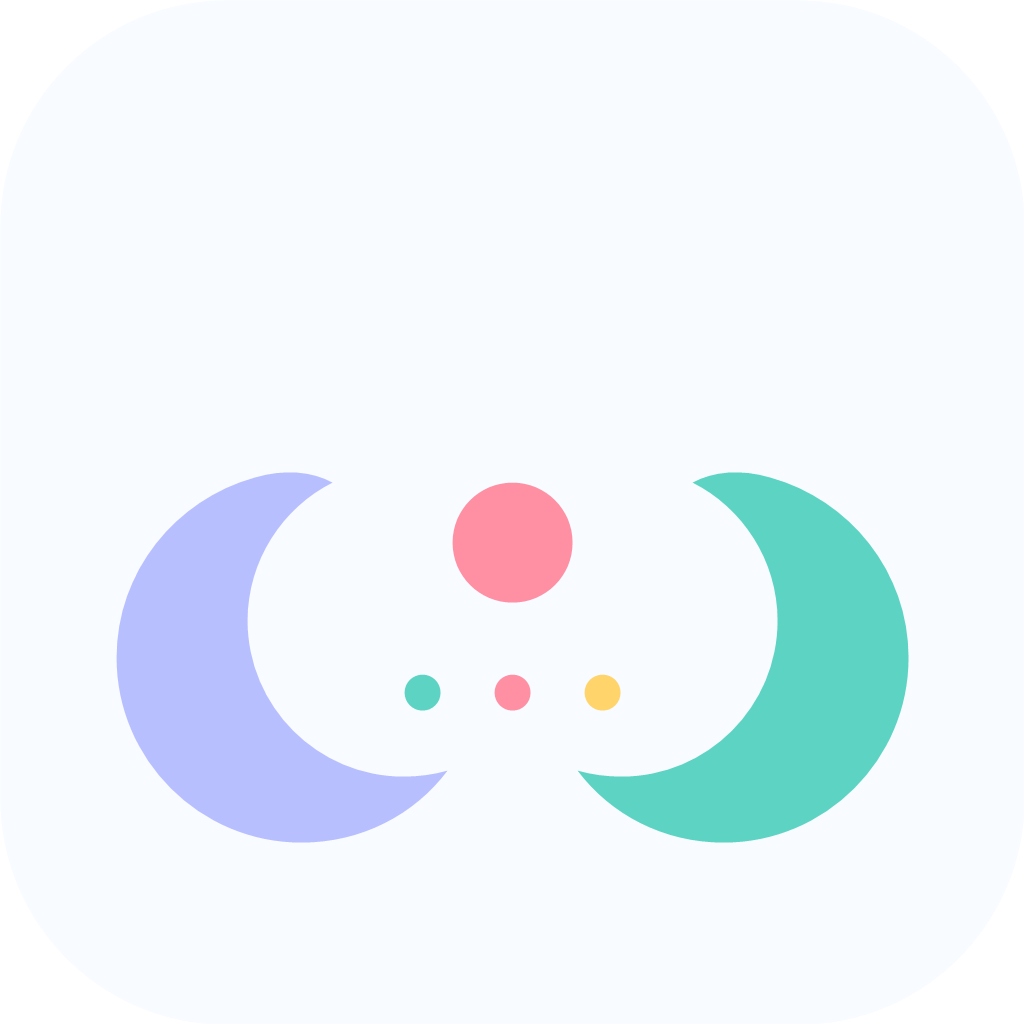
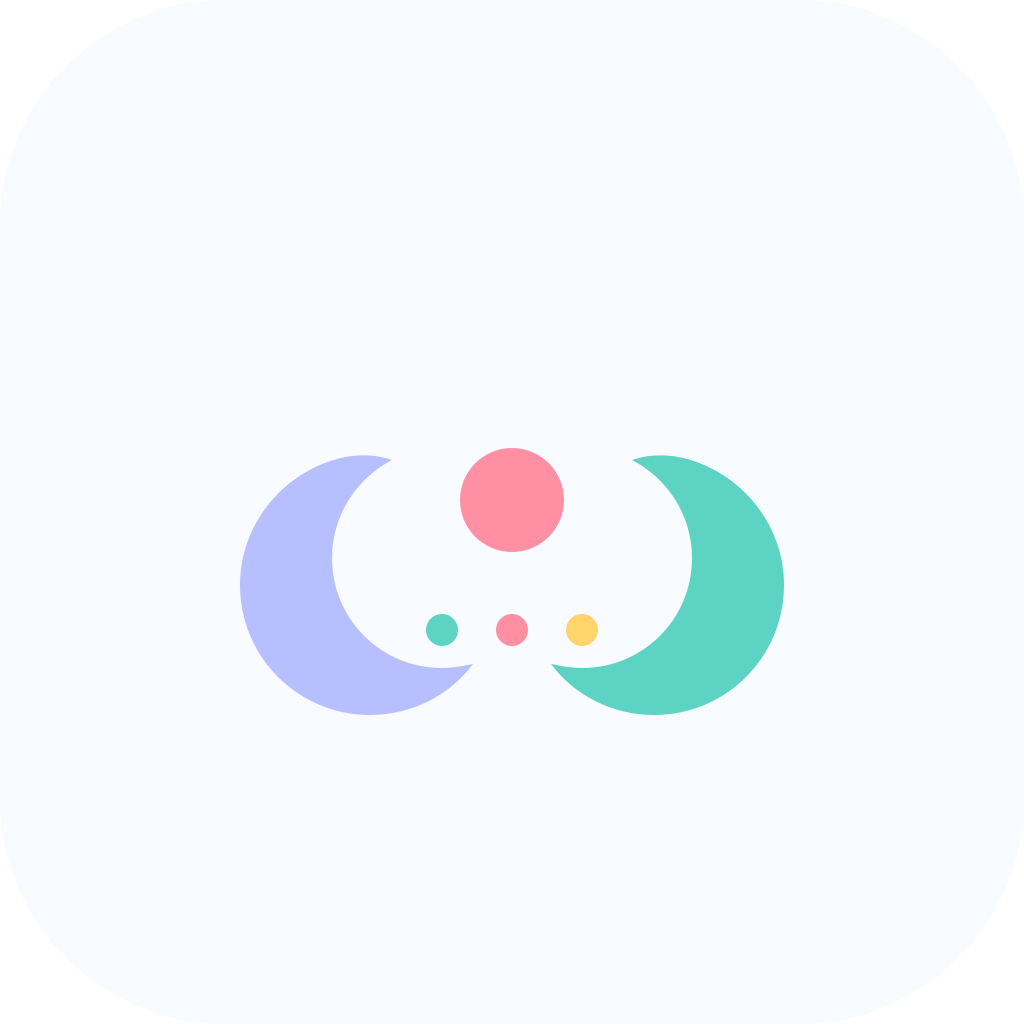
fix: 优化 App 图标安全边距
- 缩小并内移月牙图案，避免圆角裁切

- 上移图案组改善视觉居中

- 发布 1.0.8 更新清单与 APK 校验信息

Changed region(s): [[0.0938, 0.4375, 0.9062, 0.8438]]

diff --git a/App.tsx b/App.tsx
@@ -244,7 +244,7 @@ type UpdateDownloadState = {
 
 const today = new Date();
 const storageKey = 'luna-log-app-v5';
-const APP_VERSION = '1.0.7';
+const APP_VERSION = '1.0.8';
 const ANDROID_PACKAGE_NAME = 'com.anonymous.lunalog';
 const APK_MIME_TYPE = 'application/vnd.android.package-archive';
 const FLAG_GRANT_READ_URI_PERMISSION = 1;
@@ -280,6 +280,17 @@ const UPDATE_SOURCES: UpdateSource[] = [
   },
 ];
 const RELEASE_NOTES: ReleaseNote[] = [
+  {
+    version: '1.0.8',
+    date: '2026-07-07',
+    title: '优化 App 图标安全边距',
+    highlights: [
+      '缩小并内移左右月牙，避免圆角裁切后露出边界',
+      '整体图案上移，让图标视觉重心更接近居中',
+      '同步更新 Android 原生启动图标资源',
+      '更新 Android versionCode 到 9，支持从 1.0.7 正常升级安装',
+    ],
+  },
   {
     version: '1.0.7',
     date: '2026-07-07',

diff --git a/README.md b/README.md
@@ -4,8 +4,8 @@ Luna Log 是一个本地优先的移动端记录应用 Demo，用于记录亲密
 
 ## 当前版本
 
-- 应用版本：`1.0.7`
-- Android versionCode：`8`
+- 应用版本：`1.0.8`
+- Android versionCode：`9`
 - Android 包名：`com.anonymous.lunalog`
 - GitHub 仓库：`https://github.com/cnxin/luna-log`
 - Gitee 镜像：`https://gitee.com/ysjugg/luna-log`
@@ -22,6 +22,13 @@ Luna Log 是一个本地优先的移动端记录应用 Demo，用于记录亲密
 - 视觉风格：支持原版、薄荷、蓝色三套主题。
 - 数据管理：支持 JSON 数据导入/导出，本地备份和恢复。
 - 内置升级：关于页可检查更新、查看来源诊断、内置下载 APK，并显示下载来源、进度、速度和剩余时间。
+
+## 1.0.8 更新
+
+- 优化 App 图标：缩小并内移左右月牙，避免圆角裁切后露出边界。
+- 整体图案上移，让图标视觉重心更接近居中。
+- 同步更新 Android 原生启动图标资源。
+- 更新 Android `versionCode` 到 `9`，支持从 `1.0.7` 正常升级安装。
 
 ## 1.0.7 更新
 
@@ -54,21 +61,21 @@ Luna Log 是一个本地优先的移动端记录应用 Demo，用于记录亲密
 当前版本 Release：
 
 ```text
-https://github.com/cnxin/luna-log/releases/tag/v1.0.7
+https://github.com/cnxin/luna-log/releases/tag/v1.0.8
 ```
 
 Android APK：
 
 ```text
-https://github.com/cnxin/luna-log/releases/download/v1.0.7/luna-log-v1.0.7-release.apk
+https://github.com/cnxin/luna-log/releases/download/v1.0.8/luna-log-v1.0.8-release.apk
 ```
 
 
 APK 校验：
 
 ```text
-SHA256: 20bb7552def430480f4e403429229dd7af6f7609132744823506d589fb0e52e5
-Size: 76518320 bytes
+SHA256: e76d4fef561b1eeebb37cadade0b3b0b68b287cd809b27ff6e8f9fd7ca0d34d8
+Size: 76502864 bytes
 ```
 
 ## 开发运行